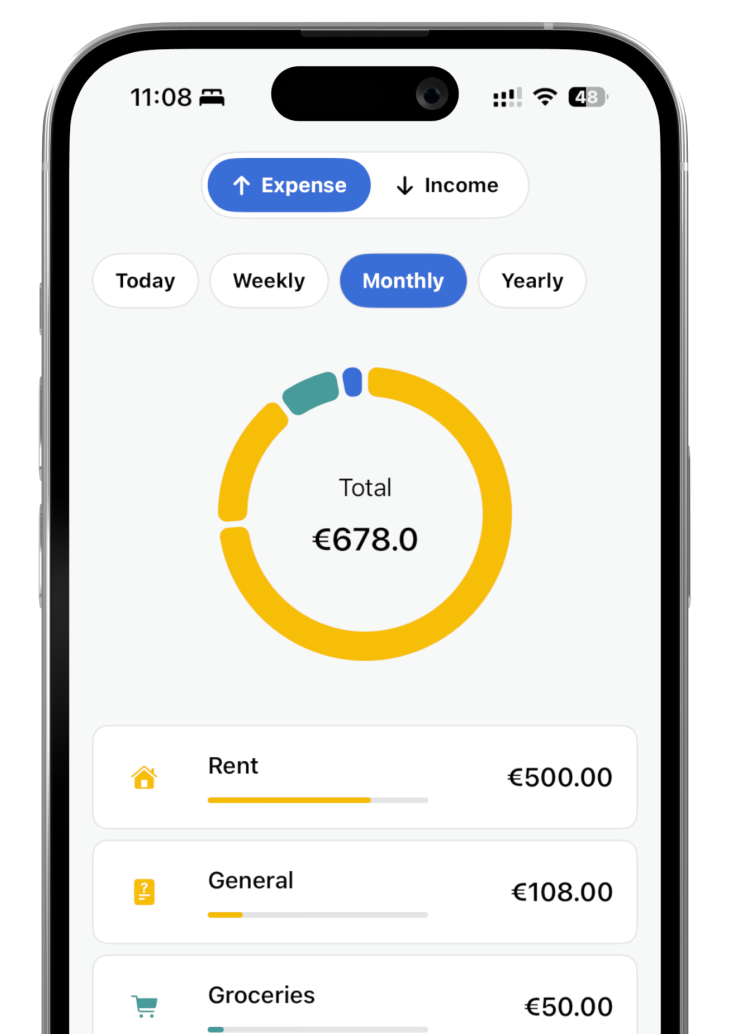
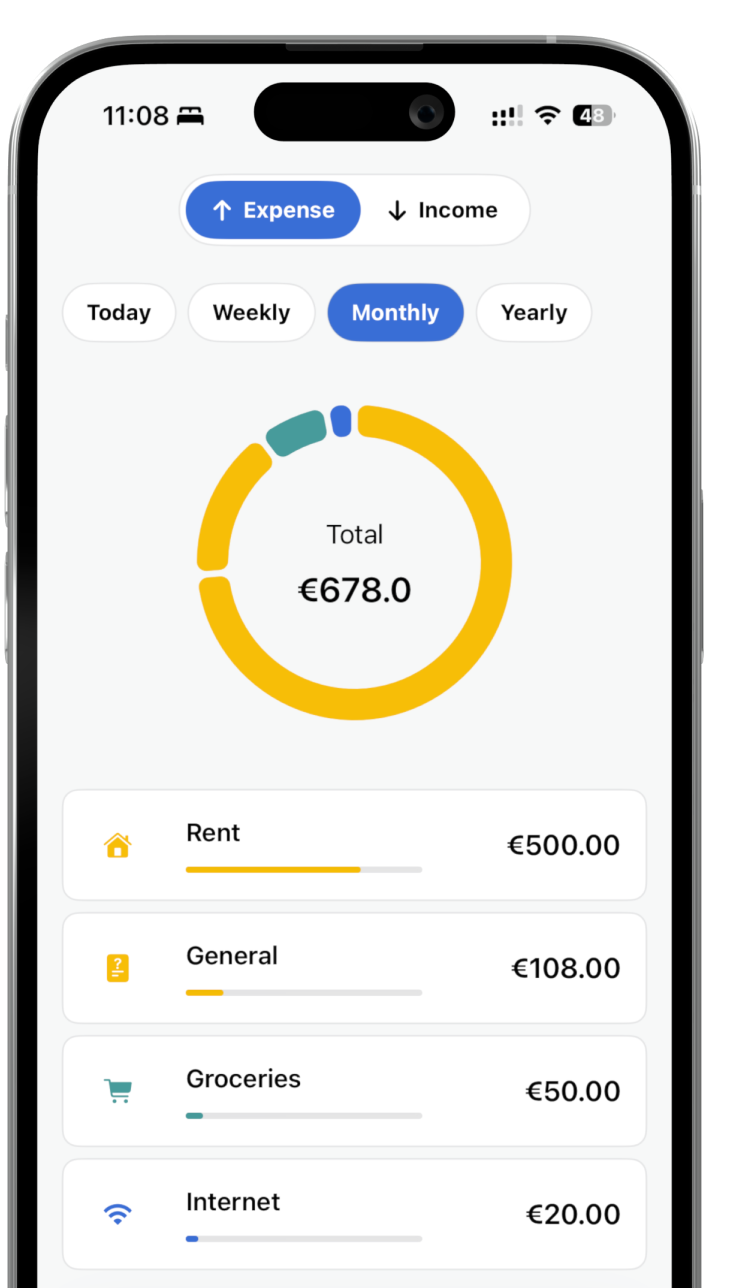
Updated

diff --git a/index.html b/index.html
@@ -371,7 +371,9 @@
         </div>
         <h3 class="text-xl font-extrabold tracking-[-0.4px] mb-2 text-brandtext">Right on your home screen</h3>
         <p class="text-[15px] text-brandmuted leading-[1.75]">See upcoming payments without opening the app — Home Screen &amp; Lock Screen.</p>
-        <img src="images/widgets.png" alt="RemindPay home screen widgets" class="mt-6 mx-auto w-auto max-h-[190px] block drop-shadow-[0_20px_50px_rgba(57,111,192,0.32)]" />
+        <div class="-mx-8 -mb-8 mt-6 h-[360px] md:h-[410px] overflow-hidden flex items-start justify-center">
+          <img src="images/widgets.png" alt="RemindPay home screen widgets" class="h-full w-auto block drop-shadow-[0_20px_50px_rgba(57,111,192,0.32)]" />
+        </div>
       </article>
 
       <!-- Integrations — orange.100 #FEF5F1, orange.600 #F75D12 -->